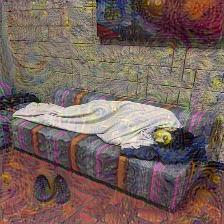
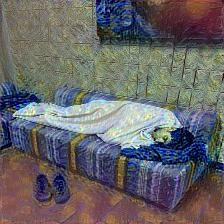
working with multiple layers, fix problem with loss function rather than derivates

diff --git a/src/main/java/edu/southwestern/util/graphics/NeuralStyleTransfer.java b/src/main/java/edu/southwestern/util/graphics/NeuralStyleTransfer.java
@@ -46,29 +46,15 @@ public class NeuralStyleTransfer {
     public static final int HEIGHT = 224;
     public static final int WIDTH = 224;
     public static final int CHANNELS = 3;
-    public static final int IMAGE_SIZE = HEIGHT * WIDTH;//                "input_1",
-    private static final String[] LOWER_LAYERS = new String[]{
-//                "input_1",
-            "block1_conv1",
-            "block1_conv2",
-            "block1_pool",
-            "block2_conv1",
-            "block2_conv2",
-            "block2_pool",
-            "block3_conv1",
-            "block3_conv2",
-            "block3_conv3",
-            "block3_pool",
-            "block4_conv1",
-            "block4_conv2"
-    };
+    public static final int IMAGE_SIZE = HEIGHT * WIDTH;
+
 
     private static final String[] STYLE_LAYERS = new String[]{
-//            "block1_conv1,0.1",
-//            "block2_conv1,0.3",
-//            "block3_conv1,0.2",
-            "block4_conv2,1.0",
-//            "block5_conv1,1"
+            "block1_conv1,0.2",
+            "block2_conv1,0.2",
+            "block3_conv1,0.2",
+            "block4_conv2,0.2",
+            "block5_conv1,0.2"
     };
 
 
@@ -107,6 +93,7 @@ public class NeuralStyleTransfer {
     public static double beta = 5.0;
     public static double total_variation_weight = 1.0;
     private static final double NOISE_RATION = 0.1;
+    private static final String CONTENT_LAYER_NAME = "block4_conv2";
 
     public static void main(String[] args) throws IOException {
         ComputationGraph vgg16FineTune = loadModel();
@@ -131,7 +118,7 @@ public class NeuralStyleTransfer {
         scaler.transform(combination);
 
         int iterations = 1000;
-        double learningRate = 0.00001;
+        double learningRate = 0.000001;
 
         vgg16FineTune.output(content);
         Map<String, INDArray> activationsContent = vgg16FineTune.feedForward();
@@ -139,15 +126,14 @@ public class NeuralStyleTransfer {
         vgg16FineTune.output(style);
         Map<String, INDArray> activationsStyle = vgg16FineTune.feedForward();
 
-        String contentLayerName = LOWER_LAYERS[LOWER_LAYERS.length - 1];
         for (int itr = 0; itr < iterations; itr++) {
             System.out.println("itr = " + itr);
             vgg16FineTune.output(combination);
             Map<String, INDArray> activations = vgg16FineTune.feedForward();
 
 
-            INDArray layerFeatures = activations.get(contentLayerName);
-            INDArray layerFeaturesContent = activationsContent.get(contentLayerName);
+            INDArray layerFeatures = activations.get(CONTENT_LAYER_NAME);
+            INDArray layerFeaturesContent = activationsContent.get(CONTENT_LAYER_NAME);
             INDArray styleBackProb = Nd4j.zeros(combination.shape());
             Map<String, INDArray> styleMap = new HashMap<>();
             Map<String, INDArray> combMap = new HashMap<>();
@@ -159,16 +145,16 @@ public class NeuralStyleTransfer {
                 double weight = Double.parseDouble(split[1]);
                 int index = findLayerIndex(styleLayerName);
                 INDArray dStyleValues = derivativeLossStyleInLayer(styleValues, combValues).transpose();
-                styleBackProb = styleBackProb.add(backPropagate(vgg16FineTune, dStyleValues.mul(beta).mul(weight).reshape(styleValues.shape()), index));
+                styleBackProb = styleBackProb.add(backPropagate(vgg16FineTune, dStyleValues.reshape(styleValues.shape()), index).mul(weight));
                 styleMap.put(styleLayerName, styleValues.dup());
                 combMap.put(styleLayerName, combValues.dup());
             }
 
             int[] newShape = layerFeatures.shape();
             INDArray dLcontent_currLayer = flatten(derivativeLossContentInLayer(layerFeaturesContent, layerFeatures));
-            INDArray backPropContent = backPropagate(vgg16FineTune, dLcontent_currLayer.reshape(newShape).mul(alpha), findLayerIndex(contentLayerName));
+            INDArray backPropContent = backPropagate(vgg16FineTune, dLcontent_currLayer.reshape(newShape), findLayerIndex(CONTENT_LAYER_NAME));
 
-            combination = combination.sub(backPropContent.add(styleBackProb).mul(learningRate));
+            combination = combination.sub(backPropContent.mul(alpha).add(styleBackProb.mul(beta)).mul(learningRate));
             System.out.println("Total Loss >> " + totalLoss(styleMap, combMap, layerFeatures.dup(), layerFeaturesContent.dup()));
 
             if (itr % 5 == 0 && itr != 0) {
@@ -207,7 +193,7 @@ public class NeuralStyleTransfer {
             String[] split = styleLayers.split(",");
             String styleLayerName = split[0];
             double weight = Double.parseDouble(split[1]);
-            styles += styleLoss(styleMap.get(styleLayerName).mul(weight), comboMap.get(styleLayerName));
+            styles += styleLoss(styleMap.get(styleLayerName), comboMap.get(styleLayerName)) * weight;
         }
         return alpha * contentLoss(comboFeatures, contentFeatures) + beta * styles;
     }
